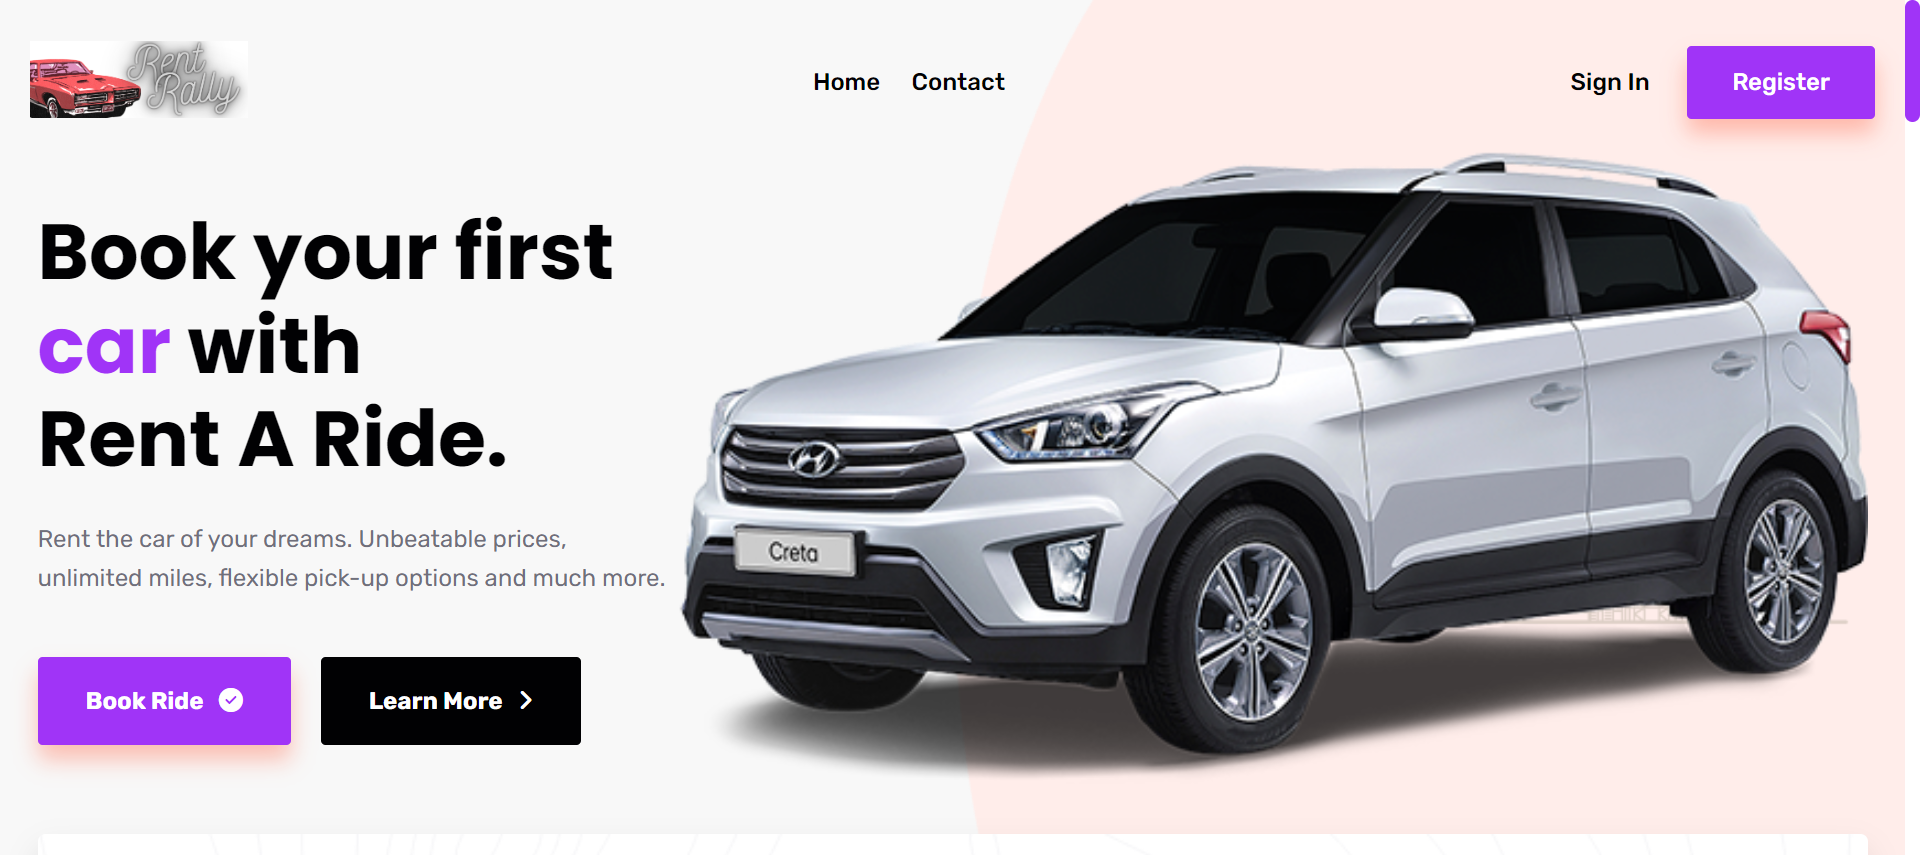
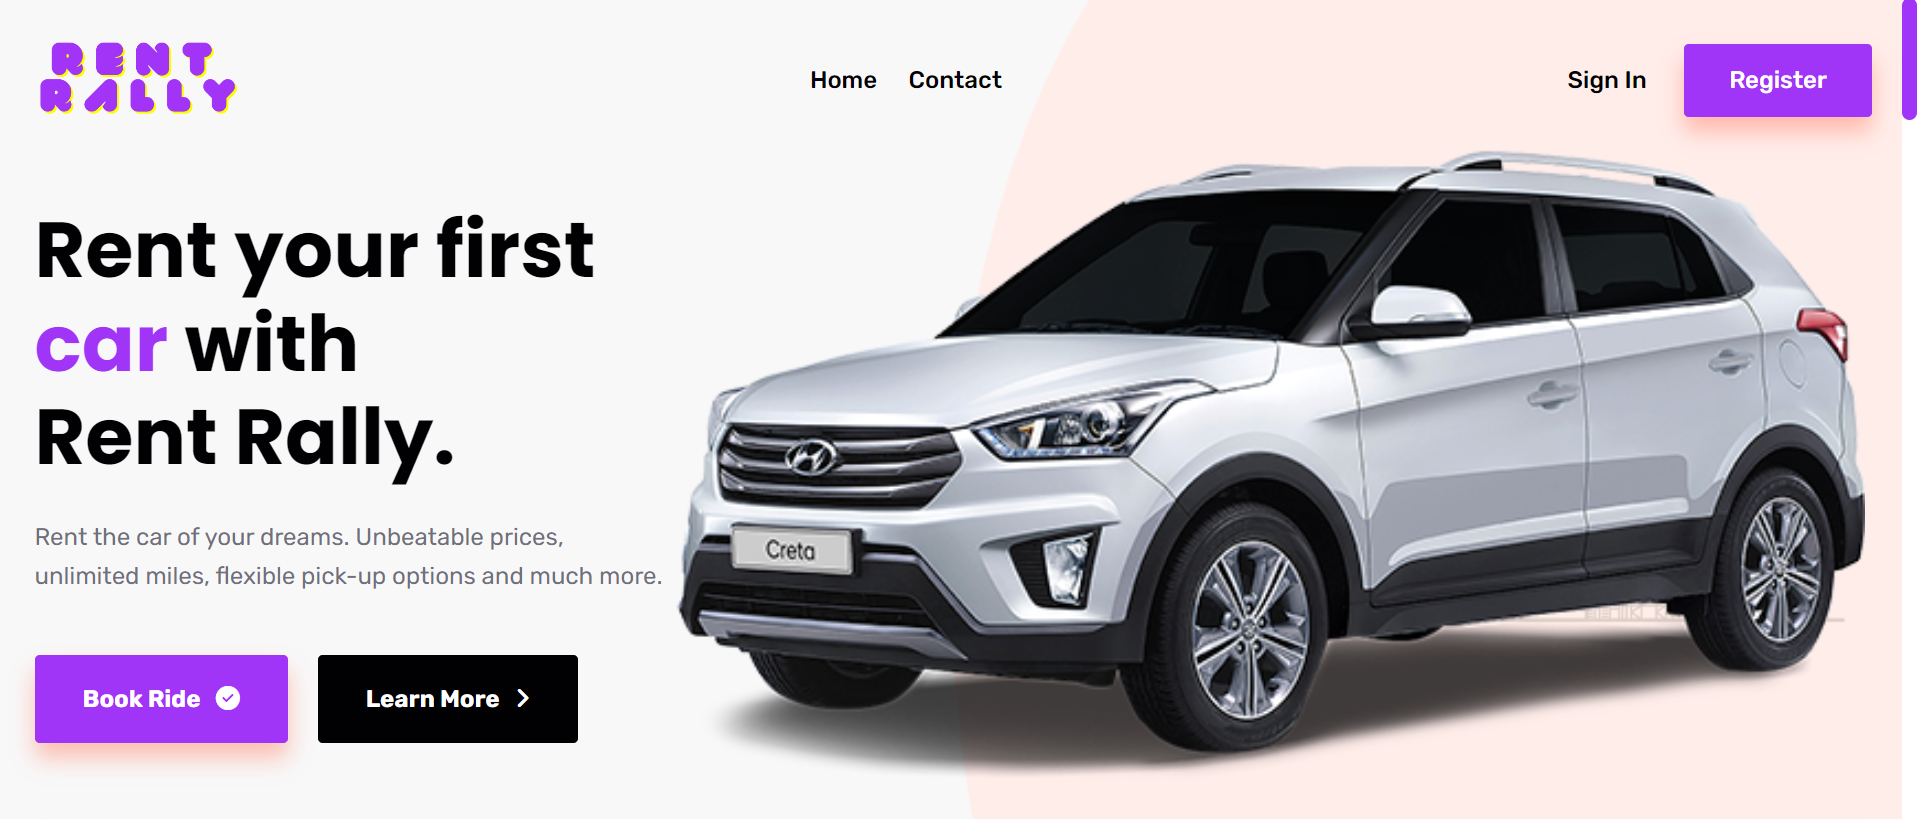
updated

diff --git a/public/index.html b/public/index.html
@@ -9,7 +9,7 @@
       name="description"
       content="Discover the best deals you'll ever find with our unbeatable offers. We're dedicated to providing you with the best value for your money, so you can enjoy top-quality services and products without breaking the bank. Our deals are designed to give you the ultimate renting experience, so don't miss out on your chance to save big."
     />
-    <link rel="apple-touch-icon" href="./rent-icon2.png" />
+    <link rel="apple-touch-icon" href="./rent-icon.png" />
 
     <link rel="preconnect" href="https://fonts.googleapis.com">
     <link rel="preconnect" href="https://fonts.gstatic.com" crossorigin>
@@ -23,7 +23,7 @@
 
 <link rel="stylesheet" href="../src/dist/styles.css">
    
-    <title>Rent A Ride</title>
+    <title>Rent Rally</title>
   </head>
   <body>
     <noscript>You need to enable JavaScript to run this app.</noscript>

diff --git a/src/components/Hero.jsx b/src/components/Hero.jsx
@@ -39,7 +39,7 @@ function Hero() {
             <div className="hero-content__text">
               {/* <h4>Plan your trip now</h4> */}
               <h1>
-                Book your first <br/> <span>car</span> with <br/> Rent A Ride.
+                Rent your first <br/> <span>car</span> with <br/> Rent Rally.
               </h1>
               <p>
                 Rent the car of your dreams. Unbeatable prices,<br/>unlimited miles,
